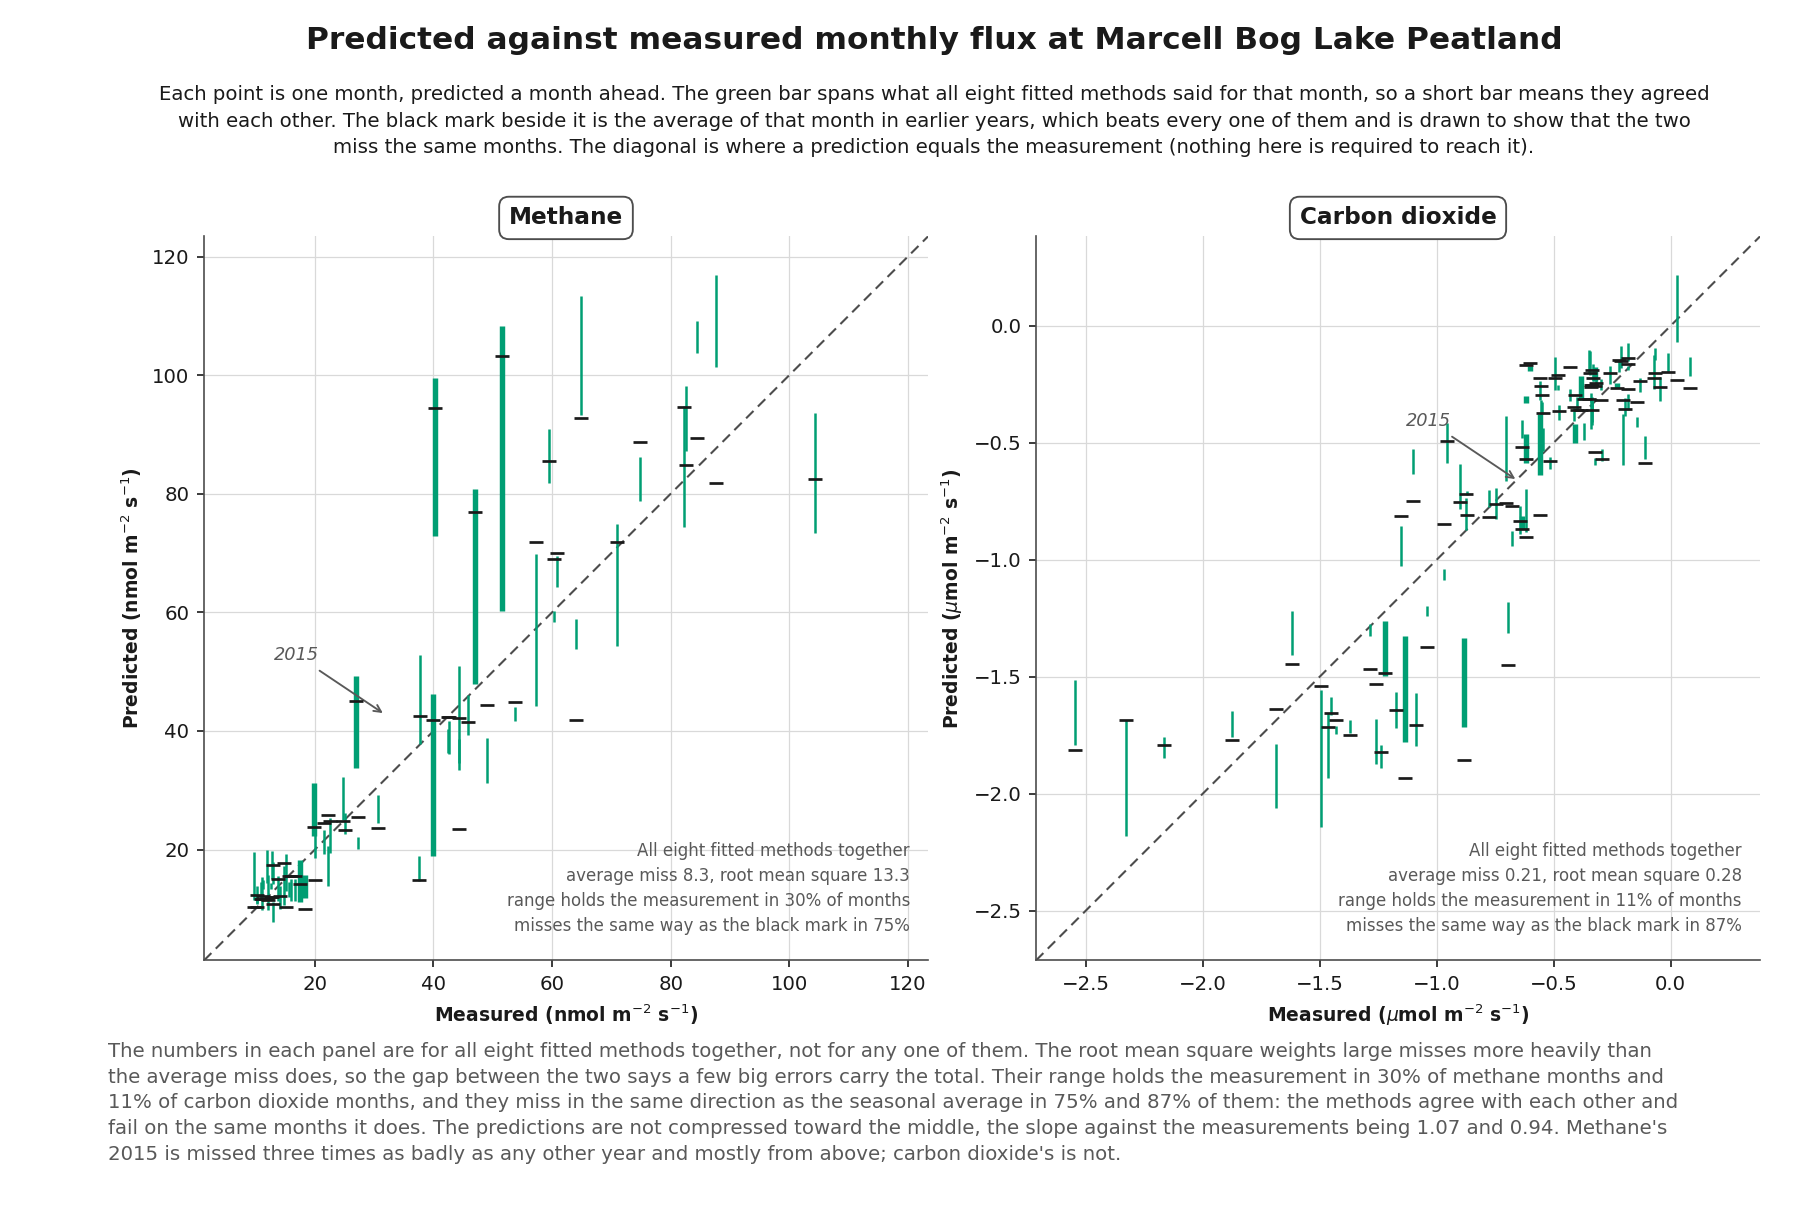
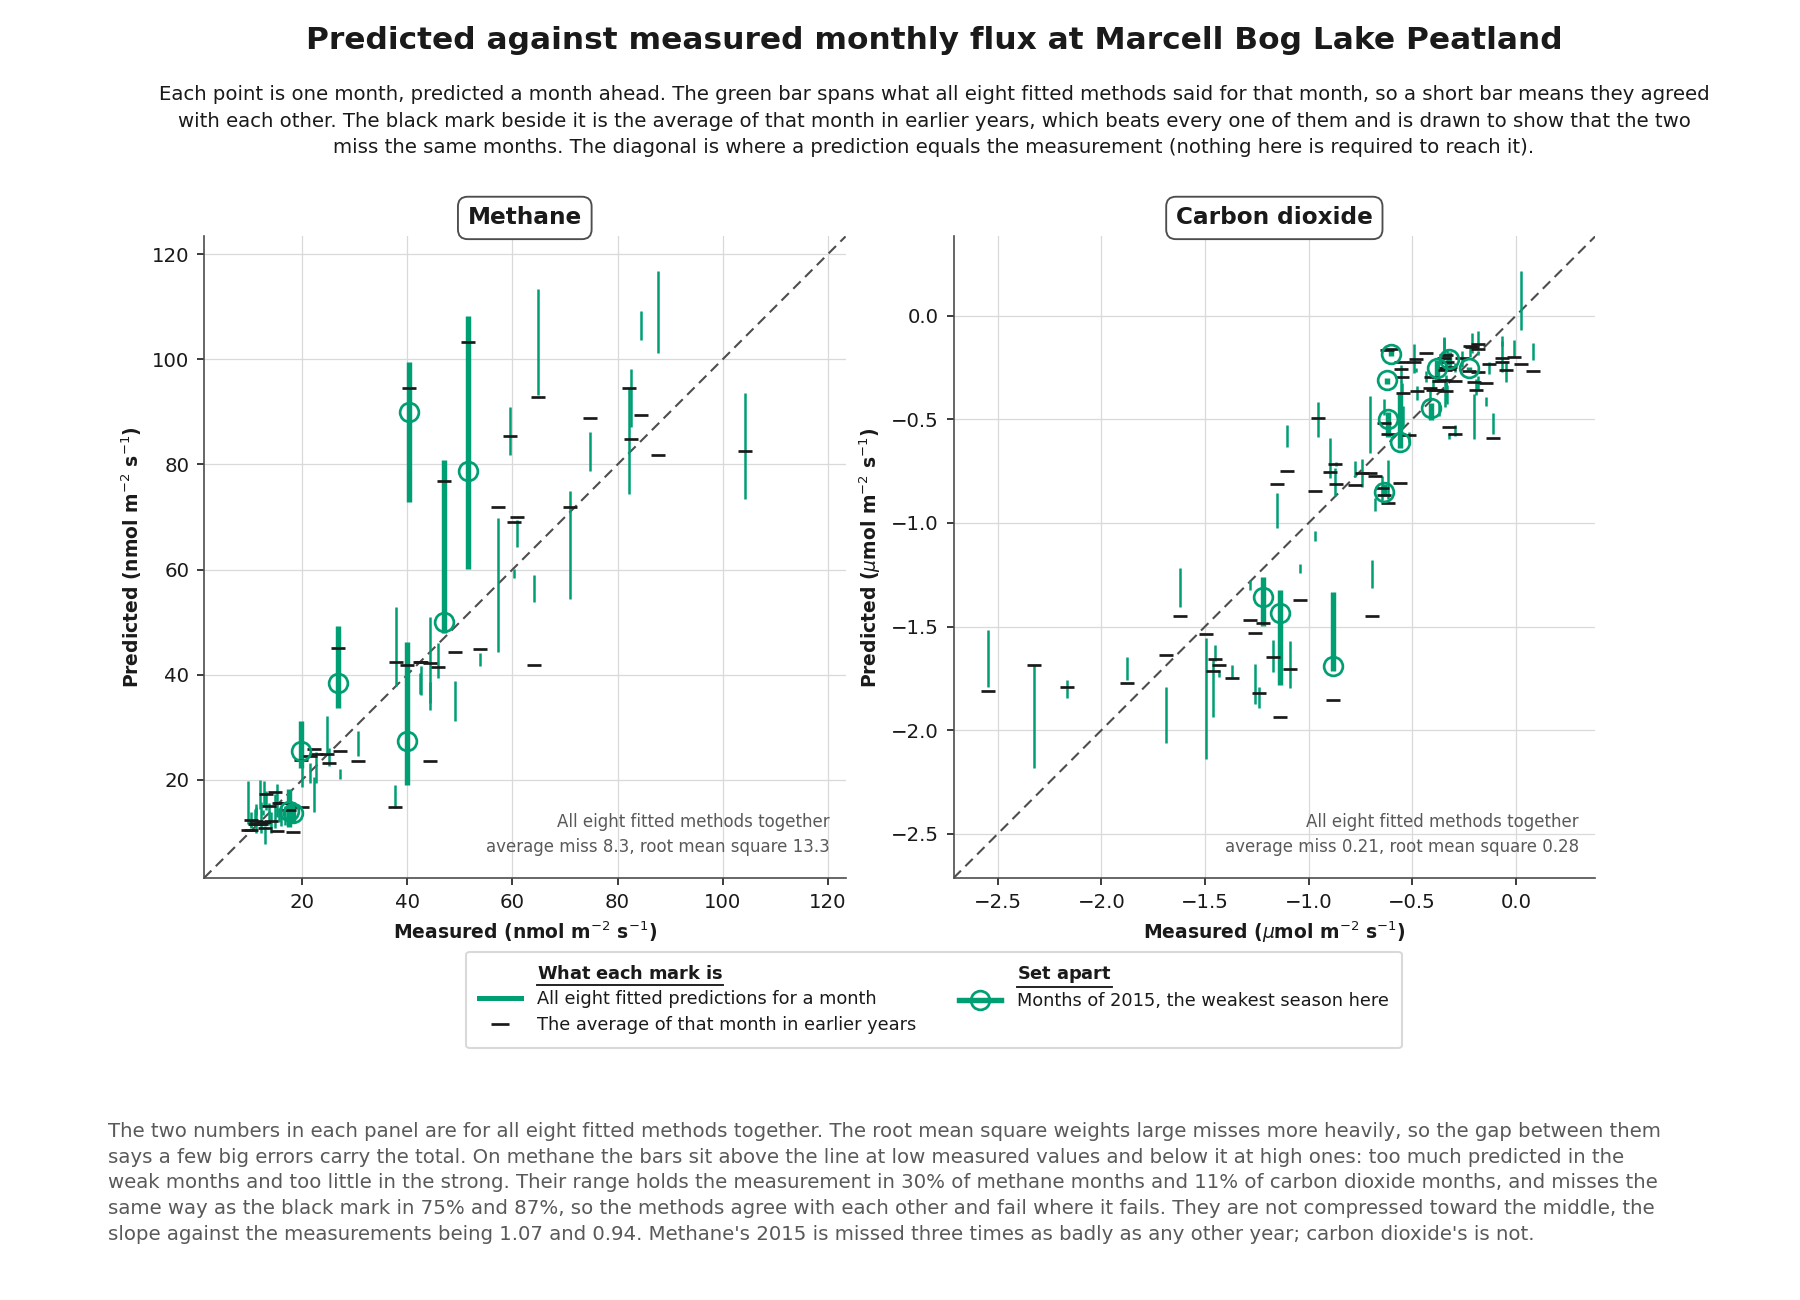
Key every mark on the agreement figure

diff --git a/src/study/figures.py b/src/study/figures.py
@@ -1931,16 +1931,17 @@ AGREEMENT_TEXT = ps.FigureText(
         "prediction equals the measurement (nothing here is required to reach it)."
     ),
     description=(
-        "The numbers in each panel are for all eight fitted methods together, not "
-        "for any one of them. The root mean square weights large misses more "
-        "heavily than the average miss does, so the gap between the two says a few "
-        "big errors carry the total. Their range holds the measurement in 30% of "
-        "methane months and 11% of carbon dioxide months, and they miss in the "
-        "same direction as the seasonal average in 75% and 87% of them: the "
-        "methods agree with each other and fail on the same months it does. The "
-        "predictions are not compressed toward the middle, the slope against the "
-        "measurements being 1.07 and 0.94. Methane's 2015 is missed three times as "
-        "badly as any other year and mostly from above; carbon dioxide's is not."
+        "The two numbers in each panel are for all eight fitted methods together. "
+        "The root mean square weights large misses more heavily, so the gap "
+        "between them says a few big errors carry the total. On methane the bars "
+        "sit above the line at low measured values and below it at high ones: too "
+        "much predicted in the weak months and too little in the strong. Their "
+        "range holds the measurement in 30% of methane months and 11% of carbon "
+        "dioxide months, and misses the same way as the black mark in 75% and 87%, "
+        "so the methods agree with each other and fail where it fails. They are "
+        "not compressed toward the middle, the slope against the measurements "
+        "being 1.07 and 0.94. Methane's 2015 is missed three times as badly as any "
+        "other year; carbon dioxide's is not."
     ),
 )
 
@@ -1954,9 +1955,17 @@ AGREEMENT_HORIZON = 1
 #: turns the scatter into structure on one of the two panels and not the other.
 MARKED_YEAR = 2015
 
-AGREEMENT_DIAGONAL = "a prediction equal to the measurement"
 AGREEMENT_MEASURED = "Measured"
 AGREEMENT_PREDICTED = "Predicted"
+
+#: The key's three entries. Every mark on the panel is named: a reader meeting
+#: green bars and black dashes with nothing to read them by has to go to the
+#: subtitle, and a figure that must be read before it can be looked at has failed.
+AGREEMENT_KEYS = (
+    "All eight fitted predictions for a month",
+    "The average of that month in earlier years",
+    f"Months of {MARKED_YEAR}, the weakest season here",
+)
 
 
 def agreement_panel(frames: dict[str, pd.DataFrame],
@@ -2007,6 +2016,13 @@ def agreement_panel(frames: dict[str, pd.DataFrame],
 AGREEMENT_AXIS_PX = 96
 AGREEMENT_GAP_PX = 108
 AGREEMENT_HEAD_PX = 44
+AGREEMENT_XAXIS_PX = 74
+AGREEMENT_KEY_PX = 96
+
+#: The ring that marks a month of the year set apart. Shape rather than hue: color
+#: already means which mark this is, and a recolored year would make it mean the
+#: mark and the year at once.
+MARKED_RING = 9.0
 
 
 def _draw_agreement_panel(ax, panel: pd.DataFrame, unit: str) -> None:
@@ -2026,6 +2042,12 @@ def _draw_agreement_panel(ax, panel: pd.DataFrame, unit: str) -> None:
         rows = panel[chosen]
         ax.vlines(rows["measured"], rows["lowest"], rows["highest"], color=ps.FITTED,
                   linewidth=weight, zorder=3)
+    # Every month of the marked year, not one of them: a single callout cannot
+    # say that the rest of the year is scattered elsewhere on the panel.
+    rows = panel[marked]
+    ax.plot(rows["measured"], rows["middle"], linestyle="none", marker="o",
+            markersize=MARKED_RING, markerfacecolor="none", markeredgecolor=ps.FITTED,
+            markeredgewidth=1.3, zorder=5)
     ax.plot(panel["measured"], panel["seasonal"], linestyle="none", marker="_",
             markersize=7, markeredgewidth=1.3, color=ps.INK, zorder=4)
 
@@ -2056,12 +2078,41 @@ def _agreement_numbers(ax, panel: pd.DataFrame, unit: str) -> None:
         "All eight fitted methods together",
         f"average miss {panel.attrs['mean_miss']:.{digits}f}, "
         f"root mean square {panel.attrs['root_mean_square']:.{digits}f}",
-        f"range holds the measurement in {100 * panel.attrs['brackets']:.0f}% of months",
-        f"misses the same way as the black mark in {100 * panel.attrs['same_way']:.0f}%",
     ]
+    # Two lines, not four. A magnitude is worth having while looking at a point;
+    # the two shares are statements about the whole cloud and read as well in the
+    # description, where they are not competing with the marks.
     ax.text(0.975, 0.035, "\n".join(lines), transform=ax.transAxes, ha="right",
             va="bottom", fontsize=ps.ANNOTATION_SIZE - 0.5, color=ps.MUTED,
-            linespacing=1.5, zorder=5)
+            linespacing=1.5, zorder=6)
+
+
+def _agreement_key(fig, left: float, bottom: float, width: float) -> None:
+    """One key for both panels, under them and clear of every mark.
+
+    Two columns with ruled headings, as elsewhere in the set. One key rather than
+    two: the panels are side by side and carry the same three marks, so a second
+    would repeat itself within a glance of the first.
+    """
+    ax = fig.add_axes((left, bottom, width, AGREEMENT_KEY_PX / ps.SIZES["square pair"][1]))
+    ax.set_axis_off()
+    blank = Line2D([], [], linestyle="none", marker="none")
+    entries = [
+        (blank, r"$\bf{What\ each\ mark\ is}$"),
+        (Line2D([], [], color=ps.FITTED, linewidth=2.4), AGREEMENT_KEYS[0]),
+        (Line2D([], [], color=ps.INK, linestyle="none", marker="_", markersize=9,
+                markeredgewidth=1.3), AGREEMENT_KEYS[1]),
+        (blank, r"$\bf{Set\ apart}$"),
+        (Line2D([], [], color=ps.FITTED, linewidth=2.6, marker="o", markersize=9,
+                markerfacecolor="none", markeredgewidth=1.3), AGREEMENT_KEYS[2]),
+        (blank, ""),
+    ]
+    ps.legend(ax, handles=[handle for handle, _ in entries],
+              labels=[label for _, label in entries], loc="center",
+              bbox_to_anchor=(0.5, 0.5), ncol=2, framealpha=1.0, borderpad=0.7,
+              labelspacing=0.42, columnspacing=2.4, handlelength=2.4,
+              handletextpad=0.9, fontsize=ps.LEGEND_SIZE - 1.0)
+    _underline_legend_headings(fig, ax)
 
 
 def predicted_against_measured(panels: dict[str, pd.DataFrame]) -> Figure:
@@ -2082,7 +2133,8 @@ def predicted_against_measured(panels: dict[str, pd.DataFrame]) -> Figure:
     # Square in pixels, not in figure fractions: the canvas is wider than it is
     # tall, so one fraction used for both sides would draw a rectangle.
     side_px = min(((width - axis_room - gap) / 2) * width_px,
-                  (height - head) * height_px)
+                  (height * height_px - AGREEMENT_HEAD_PX - AGREEMENT_XAXIS_PX
+                   - AGREEMENT_KEY_PX))
     across, down = side_px / width_px, side_px / height_px
     for column, (key, gas, unit) in enumerate(GAS_PANEL):
         panel = panels[key]
@@ -2091,12 +2143,5 @@ def predicted_against_measured(panels: dict[str, pd.DataFrame]) -> Figure:
         _draw_agreement_panel(ax, panel, unit)
         _agreement_numbers(ax, panel, unit)
         ps.panel_name(ax, gas, x=0.5, align="center", y=1.0 + 30 / side_px)
-        # Beside its own cluster rather than in a corner: on carbon dioxide the
-        # marked months sit mid-cloud, and a leader from the corner would cross
-        # the panel to reach them.
-        marked = panel[panel.index.year == MARKED_YEAR]
-        ps.annotate(ax, str(MARKED_YEAR),
-                    xy=(float(marked["measured"].mean()), float(marked["middle"].mean())),
-                    xytext=(-34, 30), textcoords="offset points", ha="right",
-                    va="center", color=ps.MUTED)
+    _agreement_key(fig, left, bottom, width)
     return fig

diff --git a/tests/test_agreement_figure.py b/tests/test_agreement_figure.py
@@ -40,6 +40,11 @@ def panels() -> dict[str, pd.DataFrame]:
             for index, (key, _, _) in enumerate(figures.GAS_PANEL)}
 
 
+def gas_panels(fig):
+    """The two square panels, which the key's own axes sits below."""
+    return fig.axes[:len(figures.GAS_PANEL)]
+
+
 # --- what the panel is built from ---------------------------------------------
 
 
@@ -94,7 +99,7 @@ def test_each_panel_is_square_and_its_axes_run_together():
     from it cannot be read."""
     fig = figures.predicted_against_measured(panels())
     width_px, height_px = ps.SIZES["square pair"]
-    for ax in fig.axes:
+    for ax in gas_panels(fig):
         box = ax.get_position()
         assert box.width * width_px == pytest.approx(box.height * height_px, rel=0.01)
         assert ax.get_xlim() == pytest.approx(ax.get_ylim())
@@ -104,7 +109,8 @@ def test_each_panel_is_square_and_its_axes_run_together():
 def test_the_gases_never_share_a_scale():
     """Different units, and one of them crosses zero."""
     fig = figures.predicted_against_measured(panels())
-    assert fig.axes[0].get_xlim() != fig.axes[1].get_xlim()
+    left, right = gas_panels(fig)
+    assert left.get_xlim() != right.get_xlim()
     ps.plt.close(fig)
 
 
@@ -118,41 +124,71 @@ def test_the_diagonal_is_named_rather_than_called_a_target():
         assert word not in said.lower()
 
 
-def test_the_marked_year_is_set_apart_by_weight_rather_than_by_hue():
-    """One marked year keeps the palette; colouring six would not."""
-    fig = figures.predicted_against_measured(panels())
-    for ax in fig.axes[:1]:
+def test_every_month_of_the_marked_year_is_set_apart_by_shape_and_weight():
+    """A single callout cannot say that the rest of the year is scattered
+    elsewhere on the panel, and a recolored year would make hue mean the mark and
+    the year at once."""
+    from matplotlib.colors import to_rgb
+
+    built = panels()
+    fig = figures.predicted_against_measured(built)
+    for ax, key in zip(gas_panels(fig), [key for key, _, _ in figures.GAS_PANEL]):
         weights = {round(collection.get_linewidth()[0], 2)
                    for collection in ax.collections}
         assert len(weights) == 2
-    said = [note.get_text() for ax in fig.axes for note in ax.texts]
-    assert said.count(str(figures.MARKED_YEAR)) == len(figures.GAS_PANEL)
+        rings = [line for line in ax.lines if line.get_marker() == "o"]
+        assert len(rings) == 1
+        marked = built[key].index.year == figures.MARKED_YEAR
+        assert len(rings[0].get_xdata()) == int(marked.sum())
+        assert rings[0].get_markerfacecolor() == "none"
+        assert to_rgb(rings[0].get_markeredgecolor()) == to_rgb(ps.FITTED)
+    ps.plt.close(fig)
+
+
+def test_the_key_names_every_mark_on_the_panel():
+    """A reader meeting green bars and black dashes with nothing to read them by
+    has to go to the subtitle, and a figure that must be read before it can be
+    looked at has failed."""
+    fig = figures.predicted_against_measured(panels())
+    keys = [ax.get_legend() for ax in fig.axes if ax.get_legend()]
+    assert len(keys) == 1
+    labels = [text.get_text() for text in keys[0].get_texts()]
+    for entry in figures.AGREEMENT_KEYS:
+        assert entry in labels
+    assert sum(label.startswith("$") for label in labels) == 2      # two headings
+    assert keys[0].axes not in gas_panels(fig)                      # clear of data
     ps.plt.close(fig)
 
 
 def test_no_method_is_identifiable_on_the_panel():
     fig = figures.predicted_against_measured(panels())
     drawn = " ".join(note.get_text() for ax in fig.axes for note in ax.texts).lower()
+    key = " ".join(figures.AGREEMENT_KEYS).lower()
     for method in METHODS + ("ridge", "forest", "boosting"):
-        assert method not in drawn
-    assert not [ax for ax in fig.axes if ax.get_legend()]
+        assert method not in drawn and method not in key
     ps.plt.close(fig)
 
 
 def test_both_axes_of_both_panels_are_named_with_their_units():
     fig = figures.predicted_against_measured(panels())
-    for ax, (_, _, unit) in zip(fig.axes, figures.GAS_PANEL):
+    for ax, (_, _, unit) in zip(gas_panels(fig), figures.GAS_PANEL):
         assert unit in ax.get_xlabel() and figures.AGREEMENT_MEASURED in ax.get_xlabel()
         assert unit in ax.get_ylabel() and figures.AGREEMENT_PREDICTED in ax.get_ylabel()
     ps.plt.close(fig)
 
 
-def test_the_numbers_are_labeled_as_the_whole_cloud():
+def test_the_panel_keeps_the_two_error_numbers_and_not_the_two_shares():
+    """A magnitude is worth having while looking at a point. The shares are
+    statements about the whole cloud and read as well in the description, where
+    they are not competing with the marks."""
     fig = figures.predicted_against_measured(panels())
-    for ax in fig.axes:
-        block = "\n".join(note.get_text() for note in ax.texts)
+    for ax in gas_panels(fig):
+        block = next(note.get_text() for note in ax.texts
+                     if "average miss" in note.get_text())
         assert "All eight fitted methods together" in block
-        assert "average miss" in block and "root mean square" in block
+        assert "root mean square" in block
+        assert "%" not in block
+        assert len(block.splitlines()) == 2
     ps.plt.close(fig)
 
 
@@ -177,7 +213,7 @@ def test_the_slope_is_a_clause_rather_than_a_number_on_the_panel():
     rules out compression toward the middle, which no error metric states."""
     assert "not compressed toward the middle" in figures.AGREEMENT_TEXT.description
     fig = figures.predicted_against_measured(panels())
-    drawn = " ".join(note.get_text() for ax in fig.axes for note in ax.texts)
+    drawn = " ".join(note.get_text() for ax in gas_panels(fig) for note in ax.texts)
     assert "slope" not in drawn.lower()
     ps.plt.close(fig)
 
@@ -189,6 +225,14 @@ def test_no_coefficient_of_determination_appears():
     said = " ".join([text.title, text.subtitle, text.description]).lower()
     for term in ("r2", "r²", "coefficient of determination", "variance explained"):
         assert term not in said
+
+
+def test_the_description_states_the_over_and_under_pattern_the_panel_shows():
+    """It is the clearest statement of the finding available and it was buried
+    behind the 2015 sentence."""
+    said = figures.AGREEMENT_TEXT.description
+    assert "above the line at low measured values and below it at high ones" in said
+    assert "too much predicted in the weak months and too little in the strong" in said
 
 
 def test_the_marked_year_claim_is_year_level_and_methane_only():

diff --git a/src/study/plotstyle.py b/src/study/plotstyle.py
@@ -204,7 +204,7 @@ SIZES = {
     #: Two square panels side by side. A one-to-one plot has to be square, so the
     #: height is set by what the width leaves rather than chosen: any more and the
     #: canvas carries empty ground under the panels.
-    "square pair": (1800, 1220),
+    "square pair": (1800, 1300),
     #: Two panels stacked. Side by side, a panel is too narrow to hold a legend
     #: that names its methods by what they do rather than by their jargon, and the
     #: legend ends up over the data. Full width leaves room beside the curves.

diff --git a/notes/study.md b/notes/study.md
@@ -2083,16 +2083,42 @@ strongly.
 same reason: it is the horizon most favorable to the fitted methods, so falling
 short of the seasonal average there says more than doing so a year out.
 
+**A key, added after the build.** The first version had none: a reader met green
+bars and black dashes with nothing on the panel to read them by, and had to go to
+the subtitle to learn what they were. A figure that must be read before it can be
+looked at has failed. One key rather than two — the panels are side by side and
+carry the same marks — set below both, framed, in the two-column ruled-heading
+form, naming all three marks.
+
 **No method is identifiable.** Each month is one vertical bar spanning all eight
 fitted predictions. The median spread is 0.23 of the observed standard deviation
 on methane and 0.15 on carbon dioxide, so the bars are short — which is itself
 the finding. Eight separate clouds would have invited the ranking the study
 denies.
 
-**2015 is marked by weight, not by hue.** Colouring six years would have broken
-the palette; one heavier bar per marked month, with the year named once per panel,
-carries the same structure. Carbon dioxide's 2015 looks like every other year,
-and that contrast is the point.
+**Every month of 2015 is marked, by shape and weight rather than by hue.** The
+first build drew one callout pointing at a single bar, which cannot say that the
+rest of the year is scattered across the panel. Each of those months now carries
+an open ring as well as a heavier bar, and the key names them. Colour was not
+available: it already means which mark this is, and a recoloured year would make
+it mean the mark and the year at once, which is the collision this set avoids
+everywhere. Colouring each year separately was considered and rejected — six
+categorical hues that are distinguishable, colour-blind safe and clear of blue,
+orange and green do not exist, and it would assert that year is the organising
+variable when the finding concerns one year. Carbon dioxide's 2015 looks like
+every other year, and that contrast is the point.
+
+**Two numbers on the panel, two in the description.** Four lines of text in each
+panel was more than a reader wants while looking at a point. The two error
+measures stay, because a magnitude is worth having in front of the marks; the two
+shares moved out, because they are statements about the whole cloud rather than
+things read off a position.
+
+**The clearest statement of the finding was buried and is now first.** On methane
+the bars sit above the line at low measured values and below it at high ones —
+too much predicted in the weak months and too little in the strong. That is the
+year-level structure visible without any annotation, and it had been sitting
+behind the 2015 sentence at the end of the description.
 
 **Four numbers, none of which ranks anything.** Pooled mean absolute error and
 root mean square error across all eight methods together, in the gas's own units,

diff --git a/figures/README_fragments.md b/figures/README_fragments.md
@@ -60,7 +60,7 @@ The same analysis is drawn twice, once weighting each month by how well it was m
 
 **Each point is one month, predicted a month ahead. The green bar spans what all eight fitted methods said for that month, so a short bar means they agreed with each other. The black mark beside it is the average of that month in earlier years, which beats every one of them and is drawn to show that the two miss the same months. The diagonal is where a prediction equals the measurement (nothing here is required to reach it).**
 
-The numbers in each panel are for all eight fitted methods together, not for any one of them. The root mean square weights large misses more heavily than the average miss does, so the gap between the two says a few big errors carry the total. Their range holds the measurement in 30% of methane months and 11% of carbon dioxide months, and they miss in the same direction as the seasonal average in 75% and 87% of them: the methods agree with each other and fail on the same months it does. The predictions are not compressed toward the middle, the slope against the measurements being 1.07 and 0.94. Methane's 2015 is missed three times as badly as any other year and mostly from above; carbon dioxide's is not.
+The two numbers in each panel are for all eight fitted methods together. The root mean square weights large misses more heavily, so the gap between them says a few big errors carry the total. On methane the bars sit above the line at low measured values and below it at high ones: too much predicted in the weak months and too little in the strong. Their range holds the measurement in 30% of methane months and 11% of carbon dioxide months, and misses the same way as the black mark in 75% and 87%, so the methods agree with each other and fail where it fails. They are not compressed toward the middle, the slope against the measurements being 1.07 and 0.94. Methane's 2015 is missed three times as badly as any other year; carbon dioxide's is not.
 
 ### The seasonal cycle in monthly flux at Marcell Bog Lake Peatland
 
